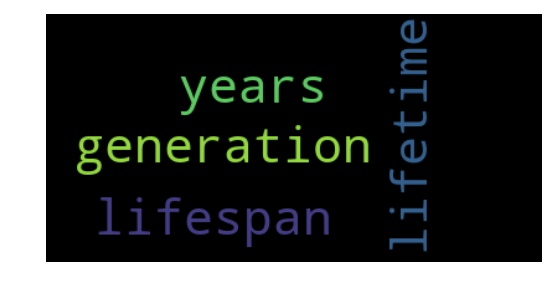
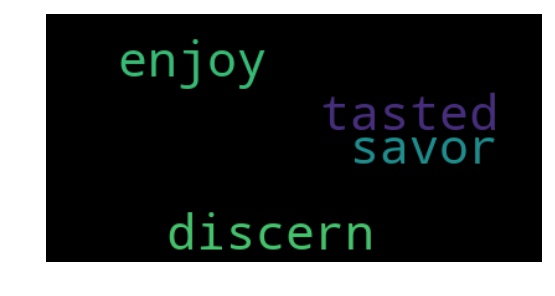
backend connection with application
1. Save synonymous sentences in mongodb
2. Generate relative size wordcloud from sentences in mongodb

diff --git a/frontend_form.html b/frontend_form.html
@@ -86,7 +86,15 @@
 						<br>
 						<img src="/static/Dynamic_Word_Cloud_2.jpg" />
 						<br>
-					</li>					
+					</li>	
+					<li>
+                        {% if words[3] %}
+						    {{ words[3] }}
+                        {% end %}
+						<br>
+						<img src="/static/Total_Word_Cloud_0.jpg" />
+						<br>
+					</li>
 				</ul>
 			{% end %}
         {% end %}

diff --git a/server.py b/server.py
@@ -12,7 +12,7 @@ import logging
 sentences = []
 class InputApplication(Application):
     def __init__(self, handler_mapping):
-        # self.db = dbHandler()
+        self.db = dbHandler()
         self.checker = ValidityChecker()
         self.sentencegenerator = SynonymGenerator()
         self.wcgenerator = WordCloudGenerator()
@@ -43,20 +43,38 @@ class InputHandler(RequestHandler):
             # Generate word cloud
             words = self.application.wcgenerator.generate_wc(text=input_text,
                                                              fname="Dynamic_Word_Cloud")
-
+            
+            # Insert valid sentences to database
+            #sentences.append(self.request.body)
+            # give input in dict/json format
+            #self.application.db.insertSentenceToDb(json.loads(self.request.body))
+            
+            # Insert valid synonymous sentences to database
+            for sentence in sentences:
+                self.application.db.insertSentenceToDb({
+                    "custom_id": 1,
+                    "sentence": sentence
+                })
+    
+            # Get history of synonymous sentences, generate frequency-relative word cloud.
+            self.application.db.connectToDb()
+            sentence = ""
+            for post in self.application.db.sentence_collection.find():
+                sentence = sentence + " " + post['sentence']
+            self.application.wcgenerator.generate_wc_one(sentence, "Total_Word_Cloud")
+            words.append(sentence)
+            
             # Render page after generating required info
             self.render("frontend_form.html", message=input_text,
                         corrections=None, sentences=sentences, words=words,
-                        wordcloud=True)
+                        wordcloud=True)            
+        
         else:
             self.render("frontend_form.html", message=input_text,
                         corrections=corrections, sentences=None, words=None,
                         wordcloud=False)
 
-        # Insert valid sentences to database
-        # sentences.append(self.request.body)
-        # give input in dict/json format
-        # self.application.db.insertSentenceToDb(json.loads(self.request.body))
+
 
 if __name__ == "__main__":
     logging_level = logging.getLevelName('INFO')

diff --git a/wordcloud_gen.py b/wordcloud_gen.py
@@ -41,6 +41,15 @@ class WordCloudGenerator:
                 plt.savefig(fname + "_" + str(i) + ".jpg", figsize=(200,100), dpi=100,bbox_inches='tight')
         return words
     
+    # Generate single word cloud based on text of all synonymous sentences.
+    def generate_wc_one(self, text, fname):
+        self.wordcloud.generate(text)
+        plt.figure()
+        plt.imshow(self.wordcloud, interpolation="bilinear")
+        plt.axis("off")
+        plt.savefig(fname + "_0.jpg", figsize=(200,100), dpi=100,bbox_inches='tight')
+        
+    
 # text1 = "Your Thanksgiving dinner tasted delicious. Thank you so much, and I hope to come again next year!"
 # wC = WordCloudGenerator()
 # wC.generate_wc(text=text1, fname='save_fig.jpg')
